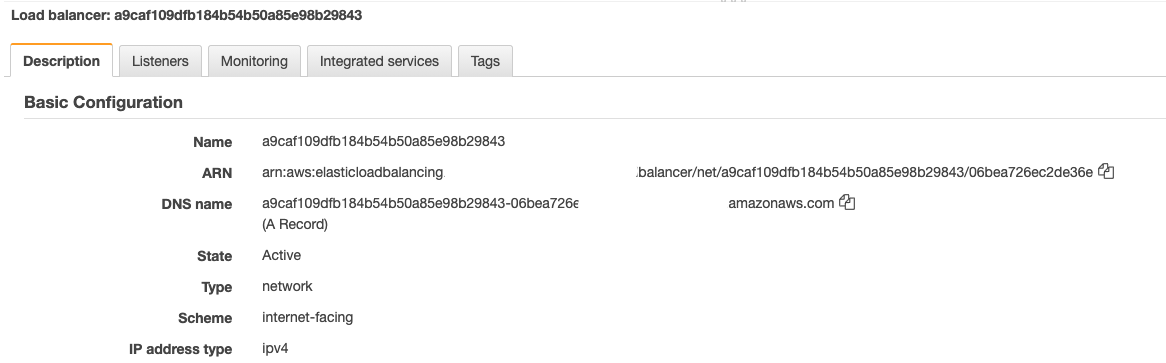
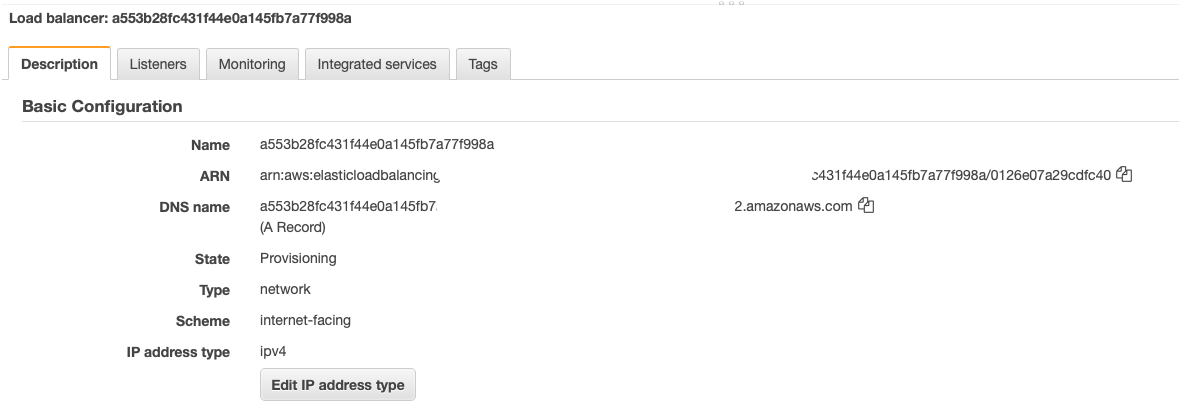
change img and add new one

diff --git a/README.md b/README.md
@@ -92,6 +92,9 @@ Banana website
 Ansible Deployment
 ![ansible](./img/ansible.png)
 
+ELB Ingress
+![ingress](./img/ingress.png)
+
 AWS Nginx Network Load Balancer
 ![elb](./img/elb.png)
 
